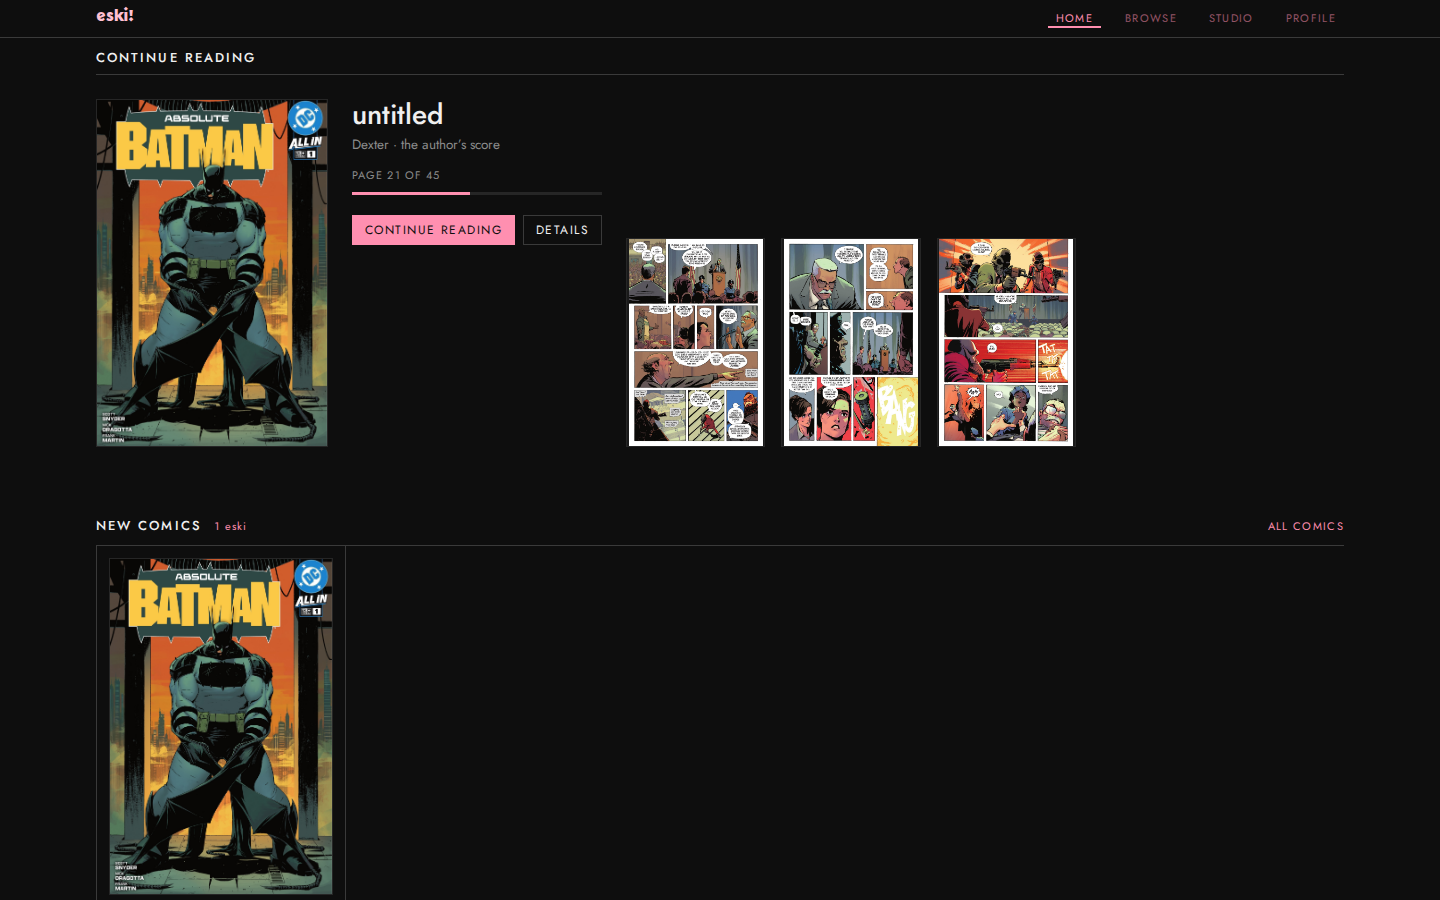
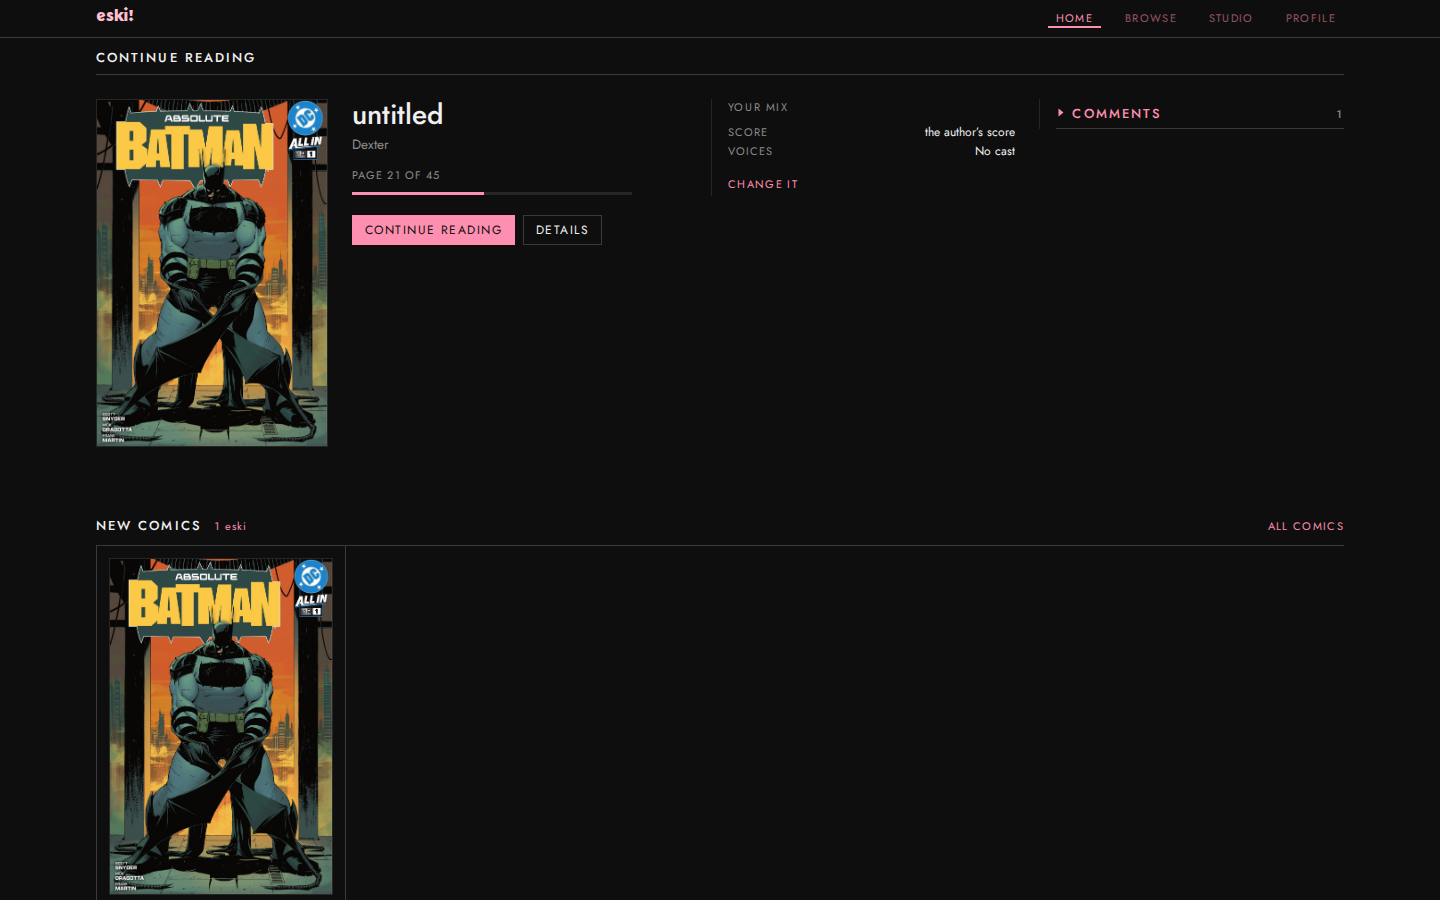
The rail shows the mix and the thread; the primary hover works again
THE HOVER WAS FIXED AND THEN UNFIXED IN THE SAME FILE. broadsheet.css
defines .btn.p:hover twice: once in the controls section, where the last
pass corrected it to invert, and again 330 lines later in the hover
section as --accent. Same specificity, later wins — and --accent is the
value --mark already is in all eighteen palettes, so it resolved to the
colour the button was already painted. CONTINUE READING and READ IT WITH
THIS MIX had no hover at all, again. The duplicate is gone and a comment
sits where it was saying why it must not come back. index.html had the
same no-op on .btn.primary.

THE PAGE PREVIEWS ARE GONE. They were pictures of something you can
already see: three thumbnails beside a cover told you where you were,
which the page count says in four words. What the row never showed is
what you are about to HEAR, which is the only thing this site has that
no other comic reader does.

So that space is two columns now. The mix — which score, which voices,
and a way to change it — and the comment thread, still a fold and still
shut by default, because this row is somewhere you pass through on the
way back into a comic rather than somewhere you stop, and because a
comment on a comic you are twenty pages into is a spoiler until you have
caught up. The fold fetches its thread on first open rather than on
render: three rows each loading a conversation nobody asked for is three
queries for nothing, and this row is above the fold on every visit.
[…]

diff --git a/index.html b/index.html
@@ -74,19 +74,23 @@ section + section{margin-top:var(--s6)}
    two things side by side that nearly line up read as a mistake, so they
    share an edge. The pages are smaller than the cover on purpose — the cover
    identifies the comic, and three thumbnails should not out-shout it. */
-/* THE SLACK GOES ON THE END, not between the credits and the pages. With the
-   middle column at 1fr it took every spare pixel and shoved the strip against
-   the right edge, leaving a lake of nothing across the middle of the row. The
-   meta column is max-content now (capped, so a long title still wraps) and the
-   1fr moved to the right of the strip — so cover, credits and pages read as
-   one group and the row simply ends, which is what the strip already says. */
-.rs{--rs-cover:232px;
-  display:grid;grid-template-columns:var(--rs-cover) minmax(0,max-content) auto;
+/* FOUR COLUMNS: the comic, where you are, what you will hear, what people
+   said. Each one is a different question, and they get equal-ish room rather
+   than one of them taking the slack — the mix and the thread both hold text
+   that wants to wrap, so neither can be `auto`. */
+/* 200, not 232. The cover was sized to match a card's plate exactly, which
+   was right when a strip of pages stood beside it at the same height and the
+   row was two tall things. With three short columns beside it instead, 348px
+   of cover set a row height nothing else came close to filling. It is still
+   unmistakably a cover — it is just no longer the only thing with a size. */
+.rs{--rs-cover:200px;
+  display:grid;
+  grid-template-columns:var(--rs-cover) minmax(0,1.1fr) minmax(0,1fr) minmax(0,1fr);
   gap:var(--s5);
   align-items:start;padding:var(--s5) 0;border-bottom:var(--bw) solid var(--rule-hair)}
 .rs:last-child{border-bottom:0}
 .rs .plate.rs-cover{width:var(--rs-cover);aspect-ratio:2/3;flex:none}
-.rs-meta{min-width:0;max-width:46ch;display:flex;flex-direction:column;gap:var(--s1)}
+.rs-meta{min-width:0;display:flex;flex-direction:column;gap:var(--s1)}
 .rs-ttl{font-size:var(--fs-title);font-weight:500;line-height:1.15}
 .rs-by{font-size:var(--fs-sm);color:var(--label)}
 .rs-at{font-size:var(--fs-micro);letter-spacing:.1em;text-transform:uppercase;
@@ -95,50 +99,57 @@ section + section{margin-top:var(--s6)}
 .rs .progress i{display:block;height:100%;background:var(--mark)}
 .rs-acts{display:flex;gap:var(--s2);margin-top:var(--s4);flex-wrap:wrap}
 
-/* A PAGE IS PAGE-SHAPED. These were a fixed 118px wide at the cover's full
-   height — a 1:3 letterbox — with object-fit:cover cropping each page to a
-   vertical sliver of itself. A comic page you cannot recognise is not doing
-   the job this row exists for, which is reminding you what was happening.
+/* ---------- the two columns that replaced the page previews ----------
+   THE PREVIEWS WERE PICTURES OF SOMETHING YOU CAN ALREADY SEE. Three page
+   thumbnails next to a cover told you where you were, which the page count
+   says in four words. What the row never showed is what you are about to
+   HEAR — which is the only thing on this site that no other comic reader
+   has. So the space went to the mix and the thread instead. */
+.rs-col{min-width:0;display:flex;flex-direction:column;gap:var(--s2);
+  border-left:var(--bw) solid var(--rule-hair);padding-left:var(--s4)}
+.rs-h{font-size:var(--fs-micro);letter-spacing:.14em;text-transform:uppercase;
+  color:var(--label)}
 
-   So the plate carries aspect-ratio 2/3 and the image is CONTAINed inside it,
-   which is what the studios' page strips already do: a page that is not quite
-   2:3 letterboxes onto the plate instead of losing its edges.
+/* a caption block, same geometry as the modal's: label left, value right,
+   one --row tall each so the two columns align down the row */
+.rs-mix{margin:0;display:grid;grid-template-columns:auto minmax(0,1fr);
+  gap:0 var(--s3);align-content:start}
+.rs-mix dt{font-size:var(--fs-micro);letter-spacing:.1em;text-transform:uppercase;
+  color:var(--label);line-height:var(--row)}
+.rs-mix dd{margin:0;font-size:var(--fs-xs);color:var(--ink);line-height:var(--row);
+  text-align:right;overflow:hidden;text-overflow:ellipsis;white-space:nowrap}
+.rs-swap{align-self:start;margin-top:var(--s1)}
 
-   Three at 60% of the cover, bottom-aligned with it. Full cover height would
-   make each page as big as the cover and there would be room for two; at 60%
-   they read as pages next to a cover rather than as four covers, and the row
-   still ends flush with the bottom of the plate beside it.
+/* the comment fold. .fold already styles the control; this only places it. */
+.rs-cmfold{margin-top:0}
+.rs-cmbody{padding-top:var(--s2);display:flex;flex-direction:column;gap:var(--s2)}
+.rs-cm{font-size:var(--fs-xs);line-height:1.45;min-width:0}
+.rs-cm b{display:block;font-weight:500;font-size:var(--fs-micro);letter-spacing:.06em;
+  text-transform:uppercase;color:var(--label)}
+.rs-cm span{color:var(--ink);display:block;overflow:hidden;
+  display:-webkit-box;-webkit-line-clamp:3;-webkit-box-orient:vertical}
+.rs-cmnote{font-size:var(--fs-micro);color:var(--label)}
+/* a flex column stretches its children, which centred the "all n" link
+   across the column instead of starting it where the comments start */
+.rs-cmbody .lnk{align-self:start}
 
-   NO FADE. A mask said "there is more over here" — but there is not: this is
-   where your bookmark is and the row ends. It was decoration doing the job of
-   an affordance that leads nowhere, and it dimmed real artwork to do it. */
-.rs-strip{--rs-w:calc(var(--rs-cover) * .6);
-  display:flex;gap:var(--s4);align-self:end}
-.rs-pg{margin:0;width:var(--rs-w);flex:none}
-.rs-pg img,.rs-blank{display:block;width:100%;aspect-ratio:2/3;
-  object-fit:contain;object-position:center;
-  border:var(--bw) solid var(--rule-hair);background:var(--plate-bg)}
-[data-dark] .rs-pg img,[data-dark] .rs-blank{background:var(--surface)}
-
-/* THREE, then TWO, then three again on a full-width row below 880. The oldest
-   goes first: the last page you saw is the one you need, and it is on the
-   right.
-
-   It stops at two rather than dropping to one. A single thumbnail beside a
-   cover reads as a thing that failed to load, not as a deliberate choice, and
-   the window where it would have shown was about 120px wide. */
-@media(max-width:1180px){ .rs-pg:nth-child(1){display:none} }
+/* the two added columns fold underneath before they get too narrow to read,
+   and lose the left rule when they do — a divider across a wrapped row points
+   at nothing. */
+@media(max-width:1100px){
+  .rs{grid-template-columns:var(--rs-cover) minmax(0,1fr) minmax(0,1fr)}
+  .rs-col:last-child{grid-column:2 / -1;border-left:0;padding-left:0;
+    border-top:var(--bw) solid var(--rule-hair);padding-top:var(--s3)}
+}
 @media(max-width:880px){
   .rs{--rs-cover:180px;grid-template-columns:var(--rs-cover) minmax(0,1fr)}
   .rs-meta{max-width:none}
-  /* below the pair rather than beside it, so the pages keep their shape
-     instead of being squeezed into whatever is left of the row */
-  .rs-strip{grid-column:1 / -1;align-self:start;overflow:hidden}
-  .rs-pg{display:block!important}
+  .rs-col{grid-column:1 / -1;border-left:0;padding-left:0;
+    border-top:var(--bw) solid var(--rule-hair);padding-top:var(--s3)}
+  .rs-col:last-child{grid-column:1 / -1}
 }
 @media(max-width:560px){
   .rs{--rs-cover:132px;gap:var(--s4)}
-  .rs-strip{--rs-w:104px}
   .rs-ttl{font-size:var(--fs-lg)}
 }
 
@@ -400,7 +411,9 @@ button.link:hover{color:var(--ink)}
 .ob-item b{display:block;font-weight:500;margin-bottom:2px}
 .ob-item span{display:block;color:var(--soft-ink);font-size:var(--fs-xs);line-height:1.45}
 .btn.primary{background:var(--mark);border-color:var(--mark);color:var(--on-mark)}
-.btn.primary:hover{background:var(--accent);border-color:var(--accent)}
+/* inverts, like .btn.p — going to --accent was a no-op, since every palette
+   gives --mark and --accent the same value */
+.btn.primary:hover{background:var(--ink);border-color:var(--ink);color:var(--paper)}
 /* an empty section must not draw the rule that frames a full one */
 .grid:empty{border-left:0}
 .rolelist:empty{border-top:0}
@@ -1251,27 +1264,47 @@ function renderResume(){
 
   box.innerHTML = going.map(c => {
     const page = Math.max(1, Math.round(c.progress * c.pp));
-    /* THREE, because a page has to be page-shaped to be worth showing. Five
-       only fitted by squashing each one into a 1:3 sliver, which is not a
-       comic page — it is a stripe of one. Three at their real proportions
-       tell you what was happening; five cropped ones do not. */
-    const back = [page - 2, page - 1, page].filter(n => n >= 1);
-    const strip = back.map(n => {
-      const url = pageUrl(c, n);
-      /* no caption. the page number is already on the row, once, in the line
-         that says where you are — printing it again under every thumbnail
-         labelled the pictures with something nobody was going to read */
-      return `<figure class="rs-pg">${url
-        ? `<img src="${esc(url)}" alt="" loading="lazy">`
-        : '<span class="rs-blank"></span>'}</figure>`;
-    }).join('');
+
+    /* THE MIX, which is the thing this row was missing. The page previews
+       that used to sit here were pictures of a comic you are already looking
+       at the cover of — they told you where you were, which the page count
+       already says. What you cannot see anywhere on this row is what you are
+       about to hear, and that is the one thing eski has that nothing else
+       does. So: who is voicing whom, and what is playing under it. */
+    const voices = (c.cast || []).filter(v => v.by);
+    const score = (c.scores || [])[0];
+    const mix = `
+      <div class="rs-col">
+        <div class="rs-h">Your mix</div>
+        <dl class="rs-mix">
+          <dt>Score</dt><dd>${score ? esc(score.title) : 'No score'}</dd>
+          <dt>Voices</dt><dd>${voices.length
+            ? voices.slice(0, 3).map(v => esc(v.character || v.name || 'someone')).join(', ') +
+              (voices.length > 3 ? ' +' + (voices.length - 3) : '')
+            : 'No cast'}</dd>
+        </dl>
+        <button class="lnk rs-swap" data-open="${esc(c.id)}">Change it</button>
+      </div>`;
+
+    /* COMMENTS, still a fold. Collapsed by default because this row is a
+       place you pass through on the way back into a comic, and an open
+       thread is a place you stop — and because a comment on a comic you are
+       21 pages into is a spoiler until you have caught up. */
+    const n = c.commentCount || 0;
+    const comments = `
+      <div class="rs-col">
+        <button class="fold rs-cmfold" data-cm="${esc(c.id)}" aria-expanded="false">
+          <span class="caret"></span>Comments<span class="sp"></span><span class="n">${n}</span>
+        </button>
+        <div class="folded rs-cmbody" hidden></div>
+      </div>`;
+
     return `<article class="rs" data-resume="${esc(c.id)}">
       <div class="plate rs-cover">${c.cover
         ? `<img src="${esc(c.cover)}" alt="" loading="lazy">` : ''}</div>
       <div class="rs-meta">
         <div class="rs-ttl">${esc(c.title || 'untitled')}</div>
-        <div class="rs-by">${esc(c.by || '—')}${
-          c.scores.length ? ' · ' + esc(c.scores[0].title) : ''}</div>
+        <div class="rs-by">${esc(c.by || '—')}</div>
         <div class="rs-at">Page ${page} of ${c.pp}</div>
         <div class="progress"><i style="width:${Math.round(c.progress*100)}%"></i></div>
         <div class="rs-acts">
@@ -1279,15 +1312,60 @@ function renderResume(){
           <button class="btn" data-open="${esc(c.id)}">Details</button>
         </div>
       </div>
-      <div class="rs-strip">${strip}</div>
+      ${mix}
+      ${comments}
     </article>`;
   }).join('');
+
+  /* the fold loads its thread the first time it is opened, not on render:
+     three rows each fetching a thread nobody asked for is three queries for
+     nothing, and this row is above the fold on every visit. */
+  box.querySelectorAll('.rs-cmfold').forEach(b => b.addEventListener('click', async e => {
+    e.stopPropagation();
+    const body = b.nextElementSibling;
+    const open = b.getAttribute('aria-expanded') === 'true';
+    b.setAttribute('aria-expanded', String(!open));
+    body.hidden = open;
+    if(open || body.dataset.loaded) return;
+    body.dataset.loaded = '1';
+    body.innerHTML = '<div class="rs-cmnote">Loading&#8230;</div>';
+    const c = byId(b.dataset.cm);
+    const rows = await recentComments(c);
+    body.innerHTML = rows === null
+      ? '<div class="rs-cmnote warn">That thread did not load.</div>'
+      : rows.length
+        ? rows.map(r => `<div class="rs-cm"><b>${esc(r.author_name || 'someone')}</b>
+            <span>${esc((r.body || '').slice(0, 140))}</span></div>`).join('') +
+          `<button class="lnk" data-open="${esc(c.id)}">All ${c.commentCount}</button>`
+        : '<div class="rs-cmnote">No comments yet.</div>';
+    body.querySelectorAll('[data-open]').forEach(x => x.addEventListener('click', ev => {
+      ev.stopPropagation();
+      const cc = byId(x.dataset.open);
+      if(cc) openDetails(cc);
+    }));
+  }));
 
   box.querySelectorAll('[data-open]').forEach(b => b.addEventListener('click', e => {
     e.stopPropagation();
     const c = byId(b.dataset.open);
     if(c) openDetails(c);
   }));
+}
+
+/* The last two comments on a comic, for the rail's fold. Deliberately not
+   the whole thread: this is a glance on the way back into a comic, and the
+   full conversation lives in the modal where there is room for it.
+
+   Returns null on failure rather than throwing — a thread that will not load
+   should say so in the fold and leave the rest of the row working. */
+async function recentComments(c){
+  if(!sb || !c || !c.dbId) return [];
+  const r = await sb.from('comments')
+    .select('author_name,body,created_at')
+    .eq('comic_id', c.dbId).is('deleted_at', null)
+    .order('created_at', { ascending: false }).limit(2);
+  if(r.error){ console.warn(window.eski.dbError('ESK-5064','the thread did not load', r.error)); return null; }
+  return r.data || [];
 }
 
 /* the reader's own page urls, so the strip shows the same bytes it will.

diff --git a/docs/design/final/broadsheet.css b/docs/design/final/broadsheet.css
@@ -460,8 +460,17 @@ select[data-ui], select[data-ui] option{
   border-color:var(--ui);
   color:var(--ui);
 }
-/* except the primary one, which is already a fill and must not invert */
-.btn.p:hover{ background:var(--accent); border-color:var(--accent); color:var(--on-mark) }
+/* THE PRIMARY BUTTON'S HOVER, DEFINED ONCE. This block used to restate it as
+   --accent, which is the same value --mark already is in all eighteen
+   palettes — a hover that resolves to the colour the button already was. It
+   also sat LATER in the file than the real rule at the top, so it silently
+   won on equal specificity and undid the fix. CONTINUE READING and READ IT
+   WITH THIS MIX, the two most-pressed controls on the site, had no hover at
+   all as a result.
+
+   It inverts, which is unmistakable in every theme and is still colour only:
+   same box, same position, same size. See the rule in the controls section —
+   this comment is here because this is where the duplicate was. */
 .btn[aria-pressed="true"]:hover, .chip[aria-pressed="true"]:hover{
   background:var(--mark); border-color:var(--mark); color:var(--on-mark);
 }

diff --git a/tests/shots.js b/tests/shots.js
@@ -159,6 +159,12 @@ const SCREENS = [
       });
       await p.waitForTimeout(700);
     } },
+  /* the rail's comment fold, which loads its thread on first open — so this
+     also proves the query, not just the chevron turning. */
+  { name: 'resume-thread', path: '/', wait: '.rs', state: async p => {
+      await p.locator('.rs-cmfold').first().click();
+      await p.waitForSelector('.rs-cm, .rs-cmnote', { timeout: 20000 });
+    } },
   { name: 'signed-out', path: '/', wait: '.card', signedOut: true },
 ];
 

diff --git a/ROADMAP.md b/ROADMAP.md
@@ -15,8 +15,8 @@ ones I would not leave sitting.
 ## Yours, not mine
 
 Five things no amount of code can do, because they need a dashboard login, a
-legal name, or a decision that is yours. Two are deferred on purpose, one is
-done, and **item 1 is the one still worth doing now**.
+legal name, or a decision that is yours. Most are now done or deliberately
+deferred — **item 1 is the one still worth doing.**
 
 ### 1. Move the media off `r2.dev` — 20 minutes, then some waiting
 
@@ -57,17 +57,14 @@ are product calls, not legal ones: can an author reuse a contributed voiceover
 **outside** eski, and is AI-generated voice allowed and must it be labelled.
 Then delete the red box. Have someone who knows this read it.
 
-### 4. Billing alarms — DEFERRED until there are users
+### 4. Billing alarms — the half that mattered is DONE
 
-Your call. The spend half is clearly fine to defer: no users means no reads,
-and R2 bills per read.
+The inactivity emails are set up, which was the part that is not about
+traffic: a quiet project is more likely to be paused than a busy one, and a
+paused project is a dead site.
 
-The **pause** half is not really about users, though, and is worth keeping in
-view. Supabase pauses a free project after a stretch of inactivity, and a
-quiet project is exactly the kind that gets paused — a site with no users is
-more at risk of this than a busy one, not less. A paused project is a dead
-site, and the first sign is usually somebody telling you it is broken. If you
-want one thing from this item, it is that one email.
+The spend notification is deferred until there are users, which is right — R2
+bills per read, and nobody is reading yet.
 
 ### 4b. Paste the R2 CORS policy — DONE
 
